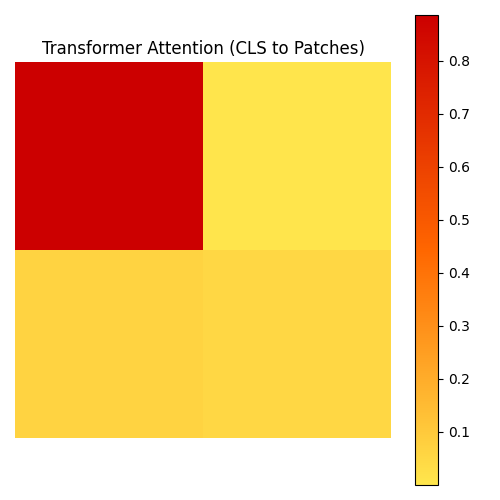
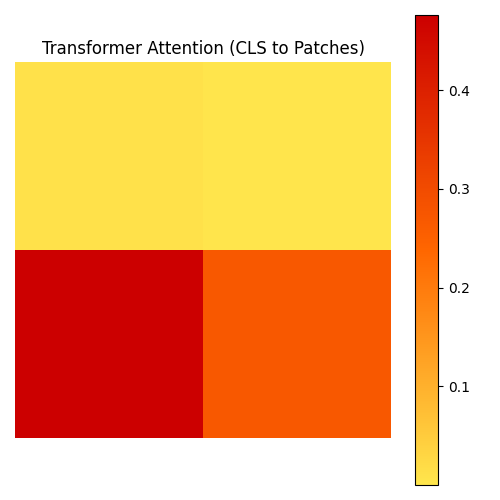
All done

diff --git a/preprocessing/comparison.py b/preprocessing/comparison.py
@@ -17,22 +17,24 @@ after_counts = [1630] * len(classes)
 # Colormap: reversed for light to dark
 colors = sns.color_palette("viridis", len(classes))[::-1]
 
+x_positions = np.arange(len(classes)) * 0.7
+
 # Plot side-by-side
-fig, axs = plt.subplots(1, 2, figsize=(18, 7))
+fig, axs = plt.subplots(1, 2, figsize=(11, 6))
 fig.suptitle("Class Distribution Before vs After Augmentation", fontsize=16)
 
 # BEFORE
-axs[0].bar(classes, before_counts, color=colors)
+axs[0].bar(x_positions, before_counts, color=colors, width=0.5)
 axs[0].set_title("Before Augmentation")
 axs[0].set_ylabel("Image Count")
 for i, count in enumerate(before_counts):
-    axs[0].text(i, count + 25, str(count), ha='center')
+     axs[0].text(x_positions[i], count + 25, str(count), ha='center', va='bottom', fontsize=10)
 
 # AFTER (all 1630)
-axs[1].bar(classes, after_counts, color=colors)
+axs[1].bar(x_positions, after_counts, color=colors, width=0.5)
 axs[1].set_title("After Augmentation")
 for i, count in enumerate(after_counts):
-    axs[1].text(i, count + 25, str(count), ha='center')
+     axs[1].text(x_positions[i], count + 25, str(count), ha='center', va='bottom', fontsize=10)
 
 # Final touches
 for ax in axs:

diff --git a/preprocessing/conf.py b/preprocessing/conf.py
@@ -1,0 +1,41 @@
+import matplotlib.pyplot as plt
+import seaborn as sns
+import numpy as np
+
+# Class labels
+labels = [
+    'Brown spot fungal', 'Damaged pests', 'Downy mildew fungal', 'Healthy',
+    'Hispa pests', 'Leaf Streak bacterial', 'Leaf blight bacterial', 'Tungro viral'
+]
+
+# Updated confusion matrix values from image
+conf_matrix = np.array([
+    [177, 1, 1, 1, 3, 0, 3, 5],
+    [  1, 232, 0, 1, 1, 0, 2, 1],
+    [  2, 0, 163, 3, 1, 0, 3, 2],
+    [  1, 0, 2, 257, 3, 2, 0, 1],
+    [  2, 0, 0, 1, 234, 1, 1, 1],
+    [  0, 0, 0, 0, 2, 153, 1, 0],
+    [  3, 1, 0, 2, 1, 3, 150, 2],
+    [  1, 0, 4, 1, 3, 2, 1, 206]
+])
+# Plot
+plt.figure(figsize=(8, 8))
+sns.heatmap(
+    conf_matrix, annot=True, fmt='d', cmap='OrRd',
+    xticklabels=labels, yticklabels=labels,
+    square=True, linewidths=0.3, linecolor='gray',
+    cbar_kws={"aspect": 20, "shrink": 0.7}
+)
+
+# Axis and labels
+plt.title("Confusion Matrix - MobileViT")
+plt.xlabel("Predicted Label")
+plt.ylabel("True Label")
+plt.xticks(rotation=45, ha='right')
+plt.yticks(rotation=0)
+
+# Ensure layout is applied BEFORE saving
+plt.tight_layout()
+# plt.savefig("cnn_vit_confusion_updated.png")
+plt.show()

diff --git a/xai/visualize.py b/xai/visualize.py
@@ -80,7 +80,7 @@ class CNNViTHybrid(nn.Module):
 
 # ==== CONFIG ====
 model_path = "../custom_cnn_vit/cnn_vit_hybrid.pt"   # Your trained model path
-image_path = "3.jpg"                                 # Test image
+image_path = "2.jpg"                                 # Test image
 num_classes = 8                                      # As per your trained model
 
 # ==== LOAD MODEL ====
@@ -109,7 +109,7 @@ grayscale_cam = cam(input_tensor=input_tensor, targets=targets)[0]
 gradcam_image = show_cam_on_image(rgb_image.astype(np.float32), grayscale_cam, use_rgb=True)
 
 # ==== SAVE Grad-CAM OUTPUT ====
-cv2.imwrite("../outputs/gradcam_leaf3.png", cv2.cvtColor(gradcam_image, cv2.COLOR_RGB2BGR))
+cv2.imwrite("../outputs/gradcam_leaf2.png", cv2.cvtColor(gradcam_image, cv2.COLOR_RGB2BGR))
 print("✅ Saved Grad-CAM++: ../outputs/gradcam_leaf.png")
 
 # ==== ATTENTION MAP (CLS → Patches) ====
@@ -138,5 +138,5 @@ plt.title("Transformer Attention (CLS to Patches)")
 plt.axis("off")
 plt.colorbar()
 plt.tight_layout()
-plt.savefig("../outputs/attention_map3.png")
+plt.savefig("../outputs/attention_map2.png")
 print("✅ Saved Attention Map: ../outputs/attention_map.png")
